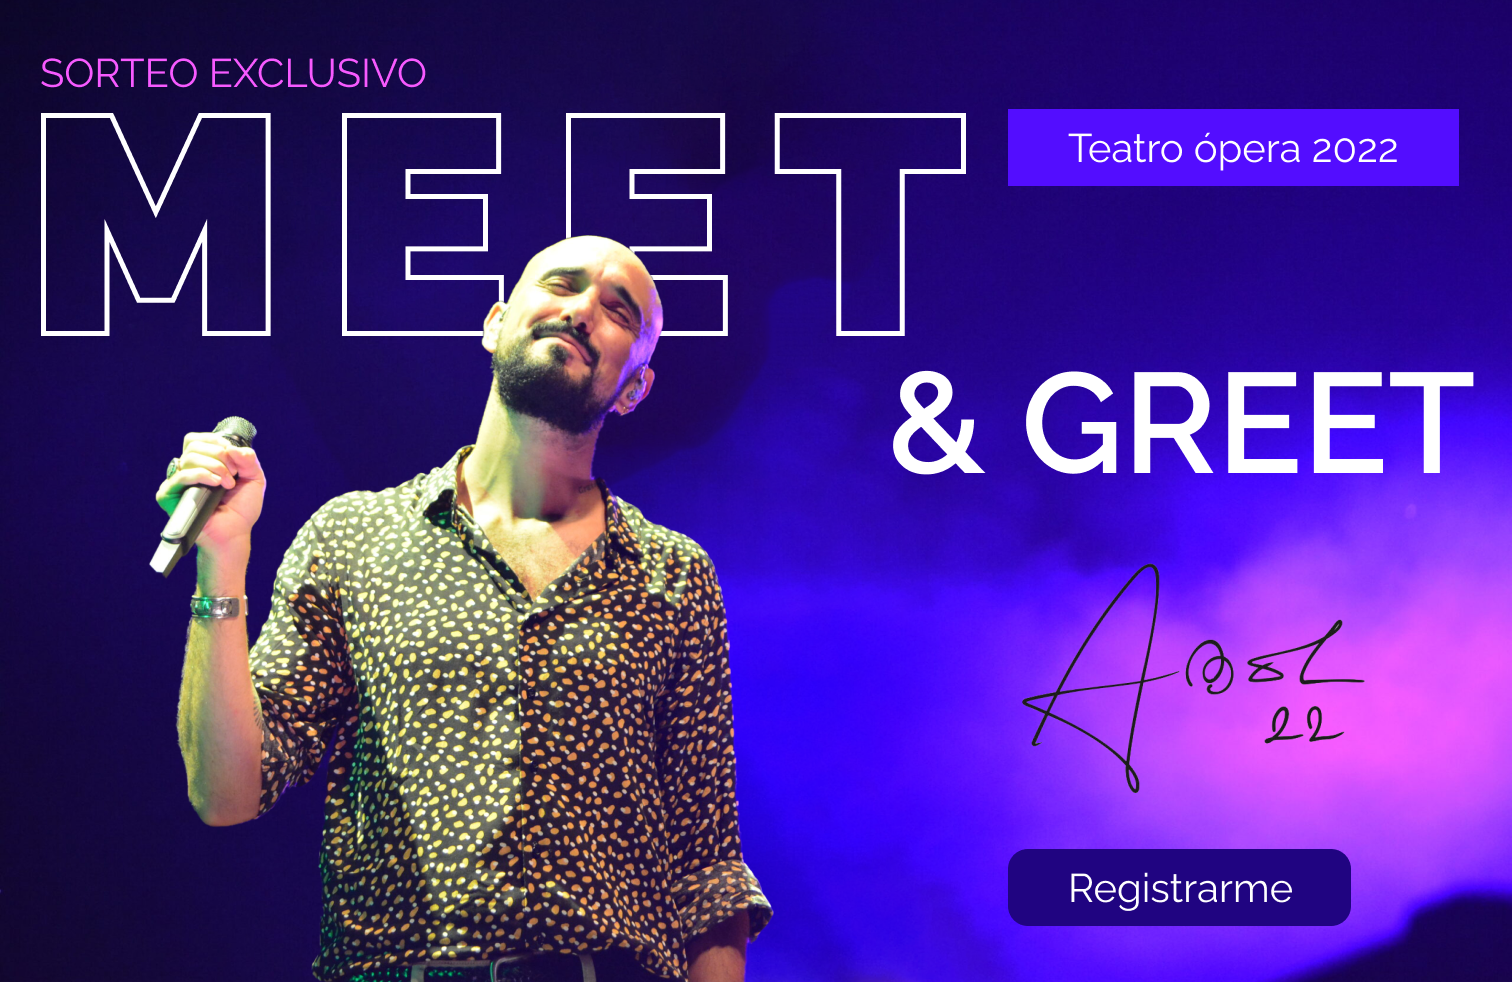
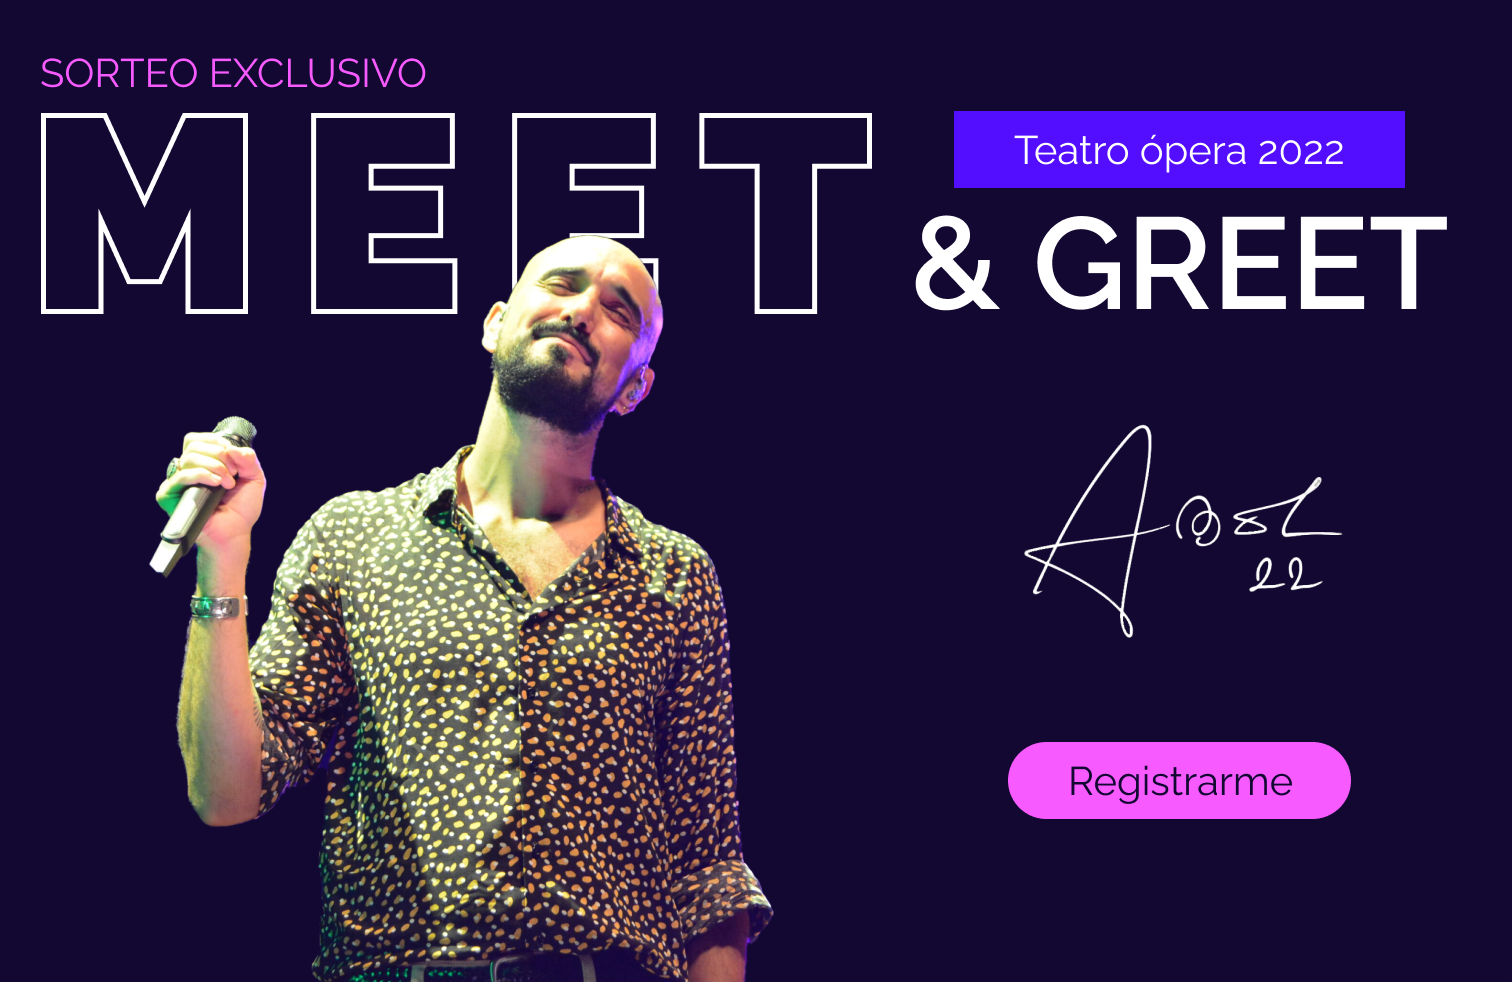
Html + css

diff --git a/styles.css b/styles.css
@@ -2,36 +2,264 @@
 /* CSS Document */
 @font-face {
     font-family: Raleway-Regular;
-    src: url("Raleway/Raleway-Regular.ttf") format('truetype');
+    src: url("Landing Page/Recursos/Raleway/Raleway-Regular.ttf") format('truetype');
 }
 
 @font-face {
     font-family: Raleway-SemiBold;
-    src: url("Raleway/Raleway-SemiBold.ttf") format('truetype');
+    src: url("Landing Page/Recursos/Raleway/Raleway-SemiBold.ttf") format('truetype');
 }
 
-body {
+@font-face {
+    font-family: Raleway-Black;
+    src: url("Landing Page/Recursos/Raleway/Raleway-Black.ttf") format('truetype');
+}
+
+html, body {
     margin: 0;
-    background-color: #120731;
+    width: 100%;
+    background-color: #130832;
+    height: 100%;
 }
 
 h1 {
-    font-family: Raleway-SemiBold, sans-serif;
-    font-size: 25px;
-    color: #FFFFFF;
+    font-family: Raleway-Black, sans-serif;
+    font-size: 80px;
+    color: white;
+    margin: 0;
 }
 
-.banner {
+h2 {
+    font-family: Raleway-SemiBold, sans-serif;
+    color: white;
+    margin: 0;
+    font-size: 45px;
+}
+
+h3 {
+    grid-column: 1 / span 12;
+    font-family: Raleway-Regular, sans-serif;
+    font-size: 40px;
+    color: #F75AFF;
+    margin: 0;
+}
+
+a {
+    font-family: Raleway-Regular, sans-serif;
+    color: white;
+    font-size: 30px;
+    margin: 40px 0;
+    text-decoration: none;
+}
+
+.center {
     display: flex;
-    background: url("TP1/fondo_abel.png") no-repeat bottom;
-    background-size: cover;
-    height: 100vh;
+    justify-content: center;
+    align-items: center;
+    text-align: center;
+}
+
+.container {
     width: 100%;
+    height: 100%;
     position: relative;
 }
 
-.post-banner {
-    position: absolute;
-    bottom: -5px;
-    left: 40px;
+.banner {
+    display: grid;
+    grid-template-columns: repeat(12, 1fr);
+    grid-column-gap: 20px;
+    height: 100vh;
+    padding: 0 40px;
+    grid-template-rows: auto 1fr 1fr 1fr;
 }
+
+.banner > h3 {
+    margin-top: 60px;
+}
+
+.img-frente {
+    position: absolute;
+    bottom: 0;
+    left: 200px;
+    width: 30%;
+}
+
+.img-frente img {
+    width: 100%;
+    max-width: 600px;
+}
+
+.meet {
+    grid-column: 1 / span 6;
+}
+
+.meet img {
+    width: 100%;
+}
+
+.rightSection {
+    grid-column: 7 / span 5;
+    display: flex;
+    flex-direction: column;
+    align-items: center;
+    justify-content: space-between;
+}
+
+.rightSection > h2 {
+    font-size: 120px;
+}
+
+.localidad {
+    background-color: #530DFF;
+    padding: 15px 60px;
+}
+
+.rightSection h3 {
+    color: white;
+}
+
+.rightSection2 {
+    grid-column: 7 / span 5;
+    display: flex;
+    flex-direction: column;
+    align-items: center;
+    justify-content: center;
+}
+
+.rightSection2 img {
+    height: 20vh;
+}
+
+.rightSection3 {
+    grid-column: 7 / span 5;
+    display: flex;
+    flex-direction: column;
+    align-items: center;
+    justify-content: center;
+}
+
+input[type="button"], input[type="submit"] {
+    background-color: #F75AFF;
+    border-radius: 40px;
+    text-align: center;
+    padding: 15px 60px;
+    font-family: Raleway-Regular, sans-serif;
+    font-size: 40px;
+    color: #130832;
+    border: none;
+    cursor: pointer;
+}
+
+.ingresodatos {
+    width: 80%;
+    margin: 80px auto;
+    display: flex;
+    flex-direction: column;
+}
+form {
+    font-family: Raleway-Regular, sans-serif;
+    font-size: 40px;
+    color: white;
+}
+
+.spacebetween {
+    display: flex;
+    justify-content: space-between;
+    padding: 20px 0;
+}
+
+input[type="text"], input[type="email"], select {
+    width: 50%;
+    font-family: Raleway-Regular, sans-serif;
+    font-size: 35px;
+    text-align: left;
+}
+
+@media(max-width: 1400px) {
+
+}
+
+@media(max-width: 480px) {
+    h1 {
+        font-size: 45px;
+        margin: 30px 0;
+    }
+
+    h2 {
+        font-size: 25px;
+    }
+
+    h3 {
+        font-size: 25px;
+    }
+
+    .banner {
+        grid-column-gap: 20px;
+        padding: 0 20px;
+        grid-template-rows: auto auto auto 1fr;
+    }
+
+    .meet {
+        grid-column: 1 / span 12;
+    }
+
+    .rightSection h3 {
+        display: none;
+    }
+
+    .rightSection {
+        grid-column: 6 / span 7;
+    }
+
+    .rightSection > h2 {
+        font-size: 40px;
+    }
+
+    .rightSection2 {
+        display: none;
+    }
+
+    .rightSection3 {
+        grid-column: 4 / span 6;
+        justify-content: start;
+        padding: 20px 0;
+    }
+
+    input[type="button"], input[type="submit"] {
+        padding: 10px 20px;
+        font-size: 30px;
+    }
+
+    .img-frente {
+        left: 50px;
+        width: 80%;
+    }
+
+    .img-frente img {
+        max-width: 250px;
+    }
+
+    form {
+        font-size: 25px;
+    }
+
+    .ingresodatos {
+        width: 90%;
+        margin: 20px auto;
+    }
+
+    .spacebetween {
+        flex-direction: column;
+    }
+
+    input[type="text"], input[type="email"], select {
+        width: 100%;
+    }
+
+    a {
+        font-size: 20px;
+        margin: 20px 0;
+    }
+}
+

diff --git a/formulario.html b/formulario.html
@@ -1,0 +1,45 @@
+<!DOCTYPE html>
+<html lang="en">
+<head>
+    <meta charset="UTF-8">
+    <meta name="viewport" content="width=device-width, initial-scale=1.0">
+    <title>Formulario de Registro</title>
+    <link rel="stylesheet" href="styles.css">
+</head>
+<body>
+    <a href="index.html"><h1 class="center">Participa del sorteo</h1></a>
+    <h2 class="center">Responde las siguientes preguntas</h2>
+<form>
+    <div class="ingresodatos">
+        <div class="spacebetween">
+            <label>Nombre y apellido: </label>
+            <input type="text" name="enviar" required>
+        </div>
+        <div class="spacebetween">
+            <label>Mail:</label>
+            <input type="email" name="enviar" required>
+        </div>
+        <div class="spacebetween">
+            <label>Localidad: </label>
+            <input type="text" name="enviar" required>
+        </div>
+        <div class="spacebetween">
+            <label>Cual es la ultima cancion de Abel Pintos?</label>
+            <select name="canciones" required>
+                <option>Seleccionar</option>
+                <option>Piedra Libre</option>
+                <option>Camina (suave y elegante)</option>
+                <option>De mi contigo</option>
+                <option>No pares</option>
+            </select>
+        </div>
+    </div>
+        <div class="center">
+            <input type="submit" value="Registrarme">
+        </div>
+    <div class="center">
+        <a href="">Ir a la pagina oficial</a>
+    </div>
+</form>
+</body>
+</html>

diff --git a/index.html b/index.html
@@ -7,12 +7,25 @@
     <link rel="stylesheet" href="styles.css">
 </head>
 <body>
-    <div class="banner">
-        <div class="post-banner">
-            <img src="TP1/abel_sinfondo.png" style="height: 80vh" alt="AbelPintos">
+    <div class="container">
+        <div class="banner">
+            <h3>SORTEO EXCLUSIVO</h3>
+            <div class="meet">
+                <img src="Landing%20Page/Recursos/meet_font.png" alt="meet">
+            </div>
+            <div class="rightSection">
+                <h3 class="localidad">Teatro opera 2022</h3>
+                <h2>& GREET</h2>
+            </div>
+            <div class="rightSection2">
+                <img src="Landing%20Page/Recursos/abel-pintos-firmabca.png" alt="firmaAbel">
+            </div>
+            <div class="rightSection3">
+                <a href="formulario.html"><input type="button" value="Registrarme"></a>
+            </div>
         </div>
-        <div>
-            <h1>MEET</h1>
+        <div class="img-frente">
+            <img src="Landing%20Page/Recursos/abel_sinfondo.png" alt="AbelPintos">
         </div>
     </div>
 </body>
